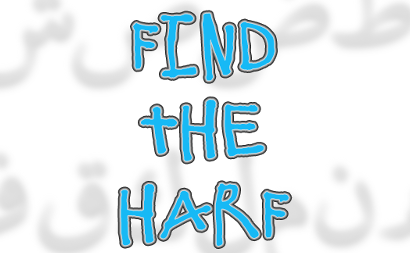
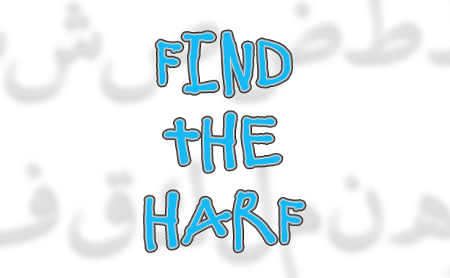
Tweaked images to fit large screen size; added dummy games

diff --git a/src/builder.rb b/src/builder.rb
@@ -79,7 +79,6 @@ class Builder
 
       game_image = "#{IMAGES_DIR}/#{filename}"
       raise "Can't find image #{g['screenshot']} for #{g['name']} in #{IMAGES_DIR}" unless File.exist?(game_image)
-      # 400 yes, 420 no
       html = "<a href='#{game_name_to_token(g['name'])}.html'><img src='#{game_image.sub('data/', '')}' /></a>"
 
       platform_html = ""
